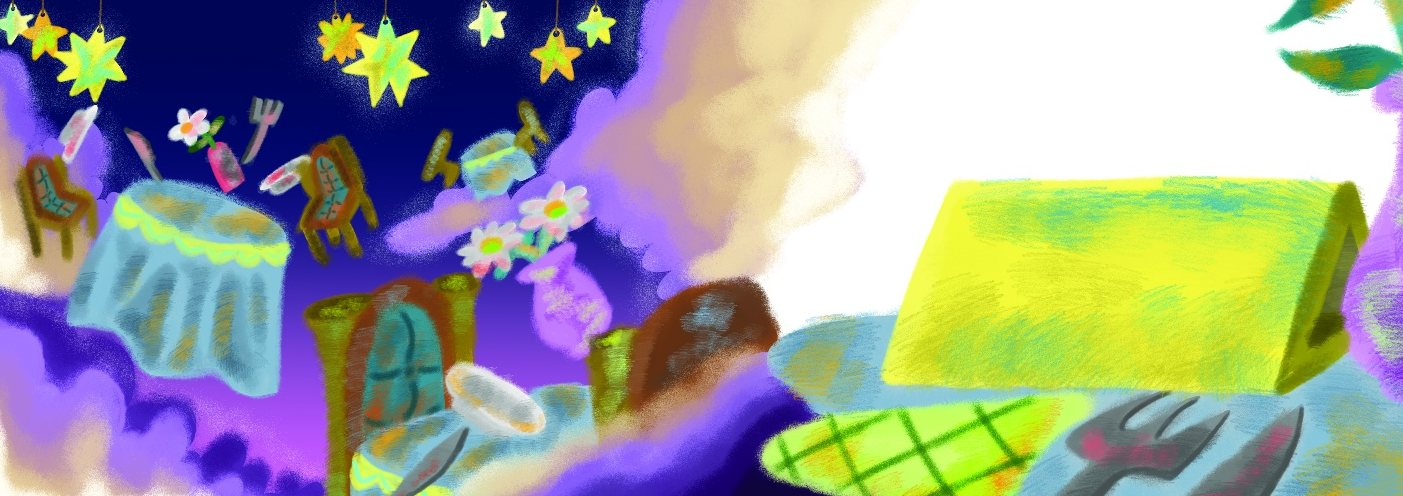
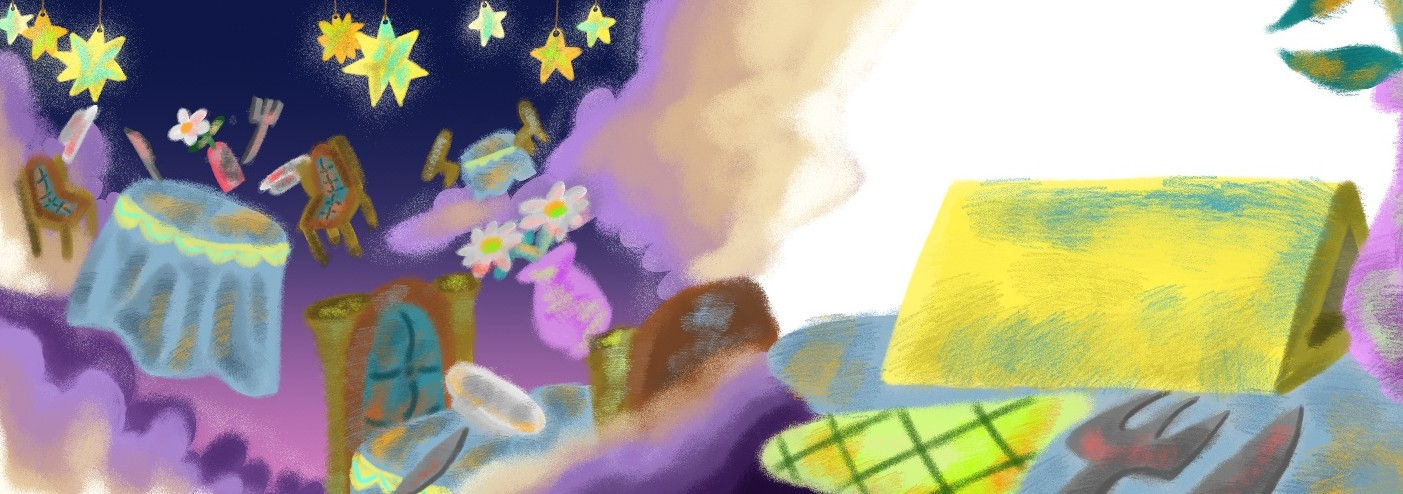
V5.0: 장면별 새 삽화 8장, #6·#7·#8 나레이션 수정
- #1·#2·3·#4·#5·#6·#7·#9·#10 삽화 교체/추가 (인쇄 템플릿 표시 제거: tools/clean_art.py)
- #1 삽화 위에 고른 때의 하늘빛을 살짝 물들임
- #6: 요정은 아이들이 했던 착한 일들을 하나하나 말해주었어요.
- #7: 와! 당신이 한 (착한 일)로 요정들은 박수를 보내며 당신의 앞에 그 음식을 놓아주었어요.
- #8: 한 문장으로 이어서

Claude-Session: https://claude.ai/code/session_01Nbh8N8c4tqUAvigBFfQUWv

diff --git a/storybook/js/story.js b/storybook/js/story.js
@@ -18,6 +18,14 @@
     return (last - 0xac00) % 28 > 0 ? forms[0] : forms[1];
   }
 
+  // '(으)로': 받침이 없거나 ㄹ이면 '로', 그 밖의 받침은 '으로'
+  function ro(word) {
+    var last = word.charCodeAt(word.length - 1);
+    if (isNaN(last) || last < 0xac00 || last > 0xd7a3) return '(으)로';
+    var j = (last - 0xac00) % 28;
+    return j === 0 || j === 8 ? '로' : '으로';
+  }
+
   // 사용자 이름(없으면 "당신") + 조사. 이름을 입력했을 때만 강조한다.
   function you(c, pair) {
     var seg = c.hasName ? { v: c.you } : c.you;
@@ -108,10 +116,9 @@
   var scenes = [
     {
       // #1 앞에서 '때'와 '날씨'를 묻는다. 층 순서: 위) 날씨 효과 / 중간) 삽화 / 아래) 하늘색
-      // 삽화는 하늘 부분을 뚫어서(투명하게) 다시 넣을 예정이라 지금은 뺀다.
-      //   예) image: 'assets/backgrounds/01-window.png'  (하늘이 투명한 PNG)
+      // 삽화 위에 고른 때의 하늘빛을 살짝 물들이고(sky-tint), 그 위에 날씨 효과가 움직인다.
       id: 'intro', act: 0, tone: 'night', no: '1', asks: ['time', 'weather'], sky: true, weatherFx: true,
-      image: null, alt: '창문 밖 하늘',
+      image: 'assets/backgrounds/01-intro.jpg', alt: '초승달과 별이 걸린 밤하늘 아래 알록달록한 마을',
       pages: [
         { text: function (c) { return introOpening(c); }, place: 'top' },
         { text: function (c) { return introSky(c); }, place: 'bottom' }
@@ -161,11 +168,8 @@
       // 착한 일은 이 펼침면 앞의 묻는 화면에서 적는다 (입력칸이 그림을 가리지 않게).
       // 왼쪽 쪽의 큰 구름(말풍선) 안에 요정이 하는 말 / 오른쪽 쪽은 삽화만
       pages: [{ text: true, place: 'center', ink: 'dark', art: 'bubble', artPos: 'bottom' }, { art: 'soup' }],
-      text: function (c) {
-        return [
-          ['요정은 아이들이 했던 착한 일들을 하나하나 말해주었어요.'],
-          you(c, '이/가').concat([' 한 착한 일도 말해주네요?'])
-        ];
+      text: function () {
+        return [['요정은 아이들이 했던 착한 일들을 하나하나 말해주었어요.']];
       },
       // 펼침면 앞의 묻는 화면에 나오는 질문
       question: function (c) { return [you(c, '이/가').concat([' 한 착한 일은 무엇인가요?'])]; }
@@ -174,17 +178,13 @@
       id: 'serve', act: 2, tone: 'gold', no: '7',
       image: 'assets/backgrounds/07-fairies-serve.jpg', alt: '박수를 치며 음식을 놓아 주는 요정들',
       pages: [{ art: 'cloche', place: 'bottom', widgets: ['deed-hint'] }, { text: true, place: 'top', art: 'starsky', artPos: 'bottom' }],
+      // 와! 당신이 한 (착한 일)로 요정들은 박수를 보내며 당신의 앞에 그 음식을 놓아주었어요.
       text: function (c) {
-        if (c.deed) {
-          return [
-            [{ v: '“' + c.deed + '”', quote: true }],
-            ['와!\n'].concat(you(c, '이/가'), [' 한 이 착한 일로 요정들은 박수를 보내며 ']).concat(you(c), ['의 앞에 그 음식을 놓아주었어요.'])
-          ];
-        }
-        // 착한 일을 비워 두었을 때의 기본 문장
+        // 문장으로 끝나는 착한 일(…했어요)은 '‘…’라는 착한 일로', 짧은 말(설거지 돕기)은 '…로'
+        var d = (c.deed || '').replace(/[.!?。]+$/, '');
+        var deed = !d ? ['착한 일로'] : /[요다]$/.test(d) ? [{ v: '‘' + d + '’' }, '라는 착한 일로'] : [{ v: d }, ro(d)];
         return [
-          ['와! 요정들은 '].concat(you(c, '이/가'), [' 한 착한 일들을 떠올리며 박수를 보냈어요.']),
-          ['그리고 '].concat(you(c), ['의 앞에 그 음식을 놓아주었어요.'])
+          ['와! '].concat(you(c, '이/가'), [' 한 '], deed, [' 요정들은 박수를 보내며 ']).concat(you(c), ['의 앞에 그 음식을 놓아주었어요.'])
         ];
       }
     },
@@ -199,7 +199,7 @@
       ],
       text: function (c) {
         return [
-          ['뚜껑을 여니, 별빛이 동동 떠다니는 스프가 있어요.\n'].concat(you(c, '은/는'), [' 한입 스프를 입에 넣었어요.'])
+          ['뚜껑을 여니, 별빛이 동동 떠다니는 스프가 있어요. '].concat(you(c, '은/는'), [' 한입 스프를 입에 넣었어요.'])
         ];
       }
     },
@@ -399,7 +399,7 @@
   };
 
   window.StarSoup = {
-    version: '4.9',   // 게시할 때마다 0.1씩 올린다 (index.html의 ?v= 와 맞춘다)
+    version: '5.0',   // 게시할 때마다 0.1씩 올린다 (index.html의 ?v= 와 맞춘다)
     cover: cover,
     acts: acts,
     foods: foods,

diff --git a/storybook/index.html b/storybook/index.html
@@ -8,8 +8,8 @@
 <link rel="preconnect" href="https://fonts.googleapis.com">
 <link rel="preconnect" href="https://fonts.gstatic.com" crossorigin>
 <link rel="stylesheet" href="https://fonts.googleapis.com/css2?family=Gowun+Dodum&family=Jua&display=swap">
-<link rel="stylesheet" href="css/style.css?v=4.9">
-<link rel="stylesheet" href="css/editor.css?v=4.9">
+<link rel="stylesheet" href="css/style.css?v=5.0">
+<link rel="stylesheet" href="css/editor.css?v=5.0">
 </head>
 <body>
 <div class="app" id="app" data-screen="cover">
@@ -218,10 +218,10 @@
   </div>
 </div>
 
-<script src="js/storage.js?v=4.9"></script>
-<script src="js/story.js?v=4.9"></script>
-<script src="js/drawing.js?v=4.9"></script>
-<script src="js/weather.js?v=4.9"></script>
-<script src="js/main.js?v=4.9"></script>
+<script src="js/storage.js?v=5.0"></script>
+<script src="js/story.js?v=5.0"></script>
+<script src="js/drawing.js?v=5.0"></script>
+<script src="js/weather.js?v=5.0"></script>
+<script src="js/main.js?v=5.0"></script>
 </body>
 </html>

diff --git a/storybook/css/style.css b/storybook/css/style.css
@@ -1460,3 +1460,12 @@ button, .tile, .chip { touch-action: manipulation; }   /* 두 번 탭 확대와 
   .taste-name-field label { position: absolute; width: 1px; height: 1px; overflow: hidden; clip: rect(0 0 0 0); }
   .taste-name-field .input { padding: 6px 12px; min-height: 0; font-size: 14px; }
 }
+
+/* #1 삽화 위에 고른 때의 하늘빛 (위쪽 하늘에만, 아래 마을로 갈수록 옅게) */
+.sky-tint {
+  position: absolute; inset: 0; pointer-events: none;
+  mix-blend-mode: color; opacity: 0.6;
+  -webkit-mask-image: linear-gradient(180deg, #000 0%, #000 45%, transparent 80%);
+          mask-image: linear-gradient(180deg, #000 0%, #000 45%, transparent 80%);
+}
+.sky-tint[data-sky="day"], .sky-tint[data-sky="morning"] { mix-blend-mode: soft-light; opacity: 0.85; }

diff --git a/storybook/js/main.js b/storybook/js/main.js
@@ -310,6 +310,8 @@
       var t = S.times.find(function (x) { return x.id === skyId; });
       bg.style.background = t ? t.sky : S.times[S.times.length - 1].sky;
       bg.setAttribute('data-sky', t ? t.id : 'night');
+      // 삽화가 있으면 그 위에 고른 때의 하늘빛을 살짝 물들인다 (밤 그림이라 밤이면 그대로)
+      if (scene.image && t && t.id !== 'night') bg.append(el('div', { class: 'sky-tint', 'data-sky': t.id, style: 'background:' + t.sky }));
     }
     spread.append(bg);
     // #1: 가장 위층에 고른 날씨의 움직이는 효과 (글 상자는 그 위에 놓여 읽기 쉽게)

diff --git a/storybook/tools/clean_art.py b/storybook/tools/clean_art.py
@@ -1,0 +1,61 @@
+"""사용자가 준 펼침면 삽화에서 인쇄 템플릿 표시(재단선·뒷면/앞면/책등 글자·사양 글자·로고)를 지운다."""
+import sys, numpy as np
+from PIL import Image, ImageFilter
+src, dst = sys.argv[1], sys.argv[2]
+which = sys.argv[3] if len(sys.argv) > 3 else ''
+labels = bool(which)
+im = Image.open(src).convert('RGB')
+a = np.asarray(im).astype(float)
+H, W = a.shape[:2]
+lum = a @ [0.299, 0.587, 0.114]
+r, g, b = a[..., 0], a[..., 1], a[..., 2]
+mask = np.zeros((H, W), bool)
+sat = a.max(2) - a.min(2)
+if labels:
+    # 가운데 책등 재단선: 양옆(6px 떨어진 곳)과 색이 확 다른 가는 세로줄만
+    side = (a[:, 704:705] + a[:, 723:724]) / 2
+    diff = np.abs(a[:, 708:719] - side).sum(2)
+    mask[:, 708:719] |= diff > 45
+    ALL = {'back': (325, 236, 405, 284), 'spine': (692, 224, 733, 304), 'front': (1022, 236, 1104, 284),   # 뒷면 / 책등 / 앞면
+           'spec': (728, 408, 910, 490), 'copy': (385, 448, 705, 490)}                                     # 사양 글자 / 로고·저작권
+    bgl = np.asarray(Image.fromarray(lum.astype('uint8')).filter(ImageFilter.GaussianBlur(9))).astype(float)
+    for k in which.split(','):
+        x0, y0, x1, y1 = ALL[k]
+        # 글자는 둘레보다 확 어둡다 (흰 종이 위든 그림 위든)
+        m = (lum[y0:y1, x0:x1] < bgl[y0:y1, x0:x1] - 14) | (lum[y0:y1, x0:x1] < 110)
+        mask[y0:y1, x0:x1] |= m
+# 조금 넓혀서 글자 가장자리까지
+mk = Image.fromarray((mask * 255).astype('uint8')).filter(ImageFilter.MaxFilter(5))
+mask = np.asarray(mk) > 0
+# 주변 색으로 채우기 (확산)
+out = a.copy()
+out[mask] = np.nan
+for it in range(400):
+    nanm = np.isnan(out[..., 0])
+    if not nanm.any(): break
+    acc = np.zeros_like(out); cnt = np.zeros((H, W, 1))
+    for dy, dx in ((1, 0), (-1, 0), (0, 1), (0, -1)):
+        sh = np.roll(np.roll(out, dy, 0), dx, 1)
+        ok = ~np.isnan(sh[..., :1])
+        acc += np.where(ok, sh, 0); cnt += ok
+    fillv = acc / np.maximum(cnt, 1)
+    can = nanm & (cnt[..., 0] > 0)
+    out[can] = fillv[can]
+# 사양 글자 자리는 빈 종이라서, 색이 없는 점은 모두 종이색으로
+if labels and 'spec' in which.split(','):
+    x0, y0, x1, y1 = 722, 404, 916, 494
+    reg = out[y0:y1, x0:x1]
+    paper = np.median(out[30:90, 1180:1380].reshape(-1, 3), axis=0)   # 오른쪽 위 빈 종이
+    flat = ((reg.max(2) - reg.min(2)) < 40) & ((reg @ [0.299, 0.587, 0.114]) > 150)
+    reg[flat] = paper
+if labels and 'copy' in which.split(','):
+    x0, y0, x1, y1 = 380, 444, 712, 494
+    reg = out[y0:y1, x0:x1]
+    paper = np.median(out[30:90, 1180:1380].reshape(-1, 3), axis=0)
+    flat = ((reg.max(2) - reg.min(2)) < 22) & ((reg @ [0.299, 0.587, 0.114]) > 200)
+    reg[flat] = paper
+res = Image.fromarray(np.clip(out, 0, 255).astype('uint8'))
+# 가장자리 재단선 바깥(12px)을 잘라 책 비율에 맞춘다
+res = res.crop((12, 12, W - 12, H - 14))
+res.save(dst, 'JPEG', quality=90, optimize=True, progressive=True)
+print(dst, res.size, int(mask.sum()), 'px filled')

diff --git a/storybook/README.md b/storybook/README.md
@@ -55,15 +55,17 @@ storybook/
 
 | 펼침면 | 쪽 | 콘티 | 파일 경로 | 상태 | 글이 놓이는 쪽 |
 | --- | --- | --- | --- | --- | --- |
-| 1 | 1–2 | #1 도입 | (지금은 뺌. 하늘을 투명하게 뚫은 PNG로 다시 넣을 예정) | — | 왼쪽 위(창문을 여니…), 오른쪽 아래(때·날씨 문장) |
+| 1 | 1–2 | #1 도입 | `assets/backgrounds/01-intro.jpg` | 채색 완료 | 왼쪽 위(하루를 보내고 창문을 여니…), 오른쪽 아래(날씨·때 문장). 고른 때의 하늘빛을 위쪽 하늘에 살짝 물들이고 그 위에 날씨 효과 |
 | 2 | 3–4 | #2 식탁 + #3 이름표 | `assets/backgrounds/02-03-dream-table.jpg` | 채색 완료 | 왼쪽 아래(#2), 오른쪽 위 흰 여백(#3). 이름은 그림 속 이름표에 바로 씀 |
-| 3 | 5–6 | #4 음식 | `assets/backgrounds/04-food-choice.jpg` | 스케치 | 왼쪽 위(글, 5쪽에 음식 스티커), 오른쪽 위(고른 음식 설명) |
-| 4 | 7–8 | #5 요정의 등장 | `assets/backgrounds/05-fairies-arrive.jpg` | 스케치 | 왼쪽 가운데 빈 자리(요정 아래) |
-| 5 | 9–10 | #6 착한 일 | `assets/backgrounds/06-fairy-praise.jpg` | 스케치 | 왼쪽 큰 구름(말풍선) 안, 오른쪽은 삽화만 |
-| 6 | 11–12 | #7 음식 받기 | `assets/backgrounds/07-fairies-serve.jpg` | 아직 없음 | 오른쪽 위 (왼쪽에 착한 일 종이) |
+| 3 | 5–6 | #4 음식 | `assets/backgrounds/04-food-choice.jpg` | 채색 완료 | 왼쪽 위(글, 5쪽에 음식 스티커), 오른쪽 위(고른 음식 설명) |
+| 4 | 7–8 | #5 요정의 등장 | `assets/backgrounds/05-fairies-arrive.jpg` | 채색 완료 | 왼쪽 가운데 |
+| 5 | 9–10 | #6 착한 일 | `assets/backgrounds/06-fairy-praise.jpg` | 채색 완료 (왼쪽) | 왼쪽 큰 말풍선 안 |
+| 6 | 11–12 | #7 음식 받기 | `assets/backgrounds/07-fairies-serve.jpg` | 채색 완료 (왼쪽) | 오른쪽 위 (왼쪽에 착한 일 종이) |
 | 7 | 13–14 | #8 별빛스프 | 13쪽 `08-soup-top.jpg` (위에서 내려다본 그릇, 임시 아트워크 `tools/soup_top.py`) | 임시 | 13쪽 그릇 위에 요리한 재료 스티커, 14쪽 위(글) |
-| 8 | 15–16 | #9 맛 | `assets/backgrounds/09-taste.jpg` + 16쪽 `09-taste-galaxy/spark/cloud.jpg` | 스케치 (왼쪽), 16쪽은 임시 아트워크 | 글 없음. 15쪽 삽화, 16쪽 고른 맛 그림 |
-| 9 | 17–18 | #10 엔딩 | 17쪽 `10-wake-up.jpg` | 왼쪽 채색 완료 | 17쪽 위(잠에서 깸). 18쪽은 삽화 없이 화창한 아침 하늘 + '창 밖을 보니…'에서 고른 날씨, 위(창 밖을 보니… 오늘도, 먹을 수 있을까요?) |
+| 8 | 15–16 | #9 맛 | `assets/backgrounds/09-taste.jpg` + 16쪽 `09-taste-galaxy/spark/cloud.jpg` | 채색 완료, 16쪽은 임시 아트워크 | 글 없음. 15쪽 삽화, 16쪽 고른 맛 그림(직접 그리기면 그림판) |
+| 9 | 17–18 | #10 엔딩 | 17쪽 `10-wake-up.jpg` | 채색 완료 (왼쪽) | 17쪽 위(잠에서 깸). 18쪽은 방 벽과 창문 그림(코드로 그림), 창을 열면 고른 날씨 |
+
+받은 삽화 원본에 남은 인쇄 템플릿 표시(재단선, 뒷면·앞면·책등 글자, 사양 글자, 로고)는 `tools/clean_art.py`로 지우고 재단선 안쪽만 잘라 넣었습니다.
 
 - 콘티의 #2와 #3은 펼침면 한 장(3–4쪽)입니다. 그래서 책은 모두 9개 펼침면, 18쪽입니다.
 - 받은 그림은 재단 여백 포함 작업 크기(604×220mm)라서, 사방 5mm를 잘라 594×210mm 비율로 저장했습니다. 화면에서는 가운데(책등)를 기준으로 정확히 좌우 반씩 각 쪽에 들어갑니다.
